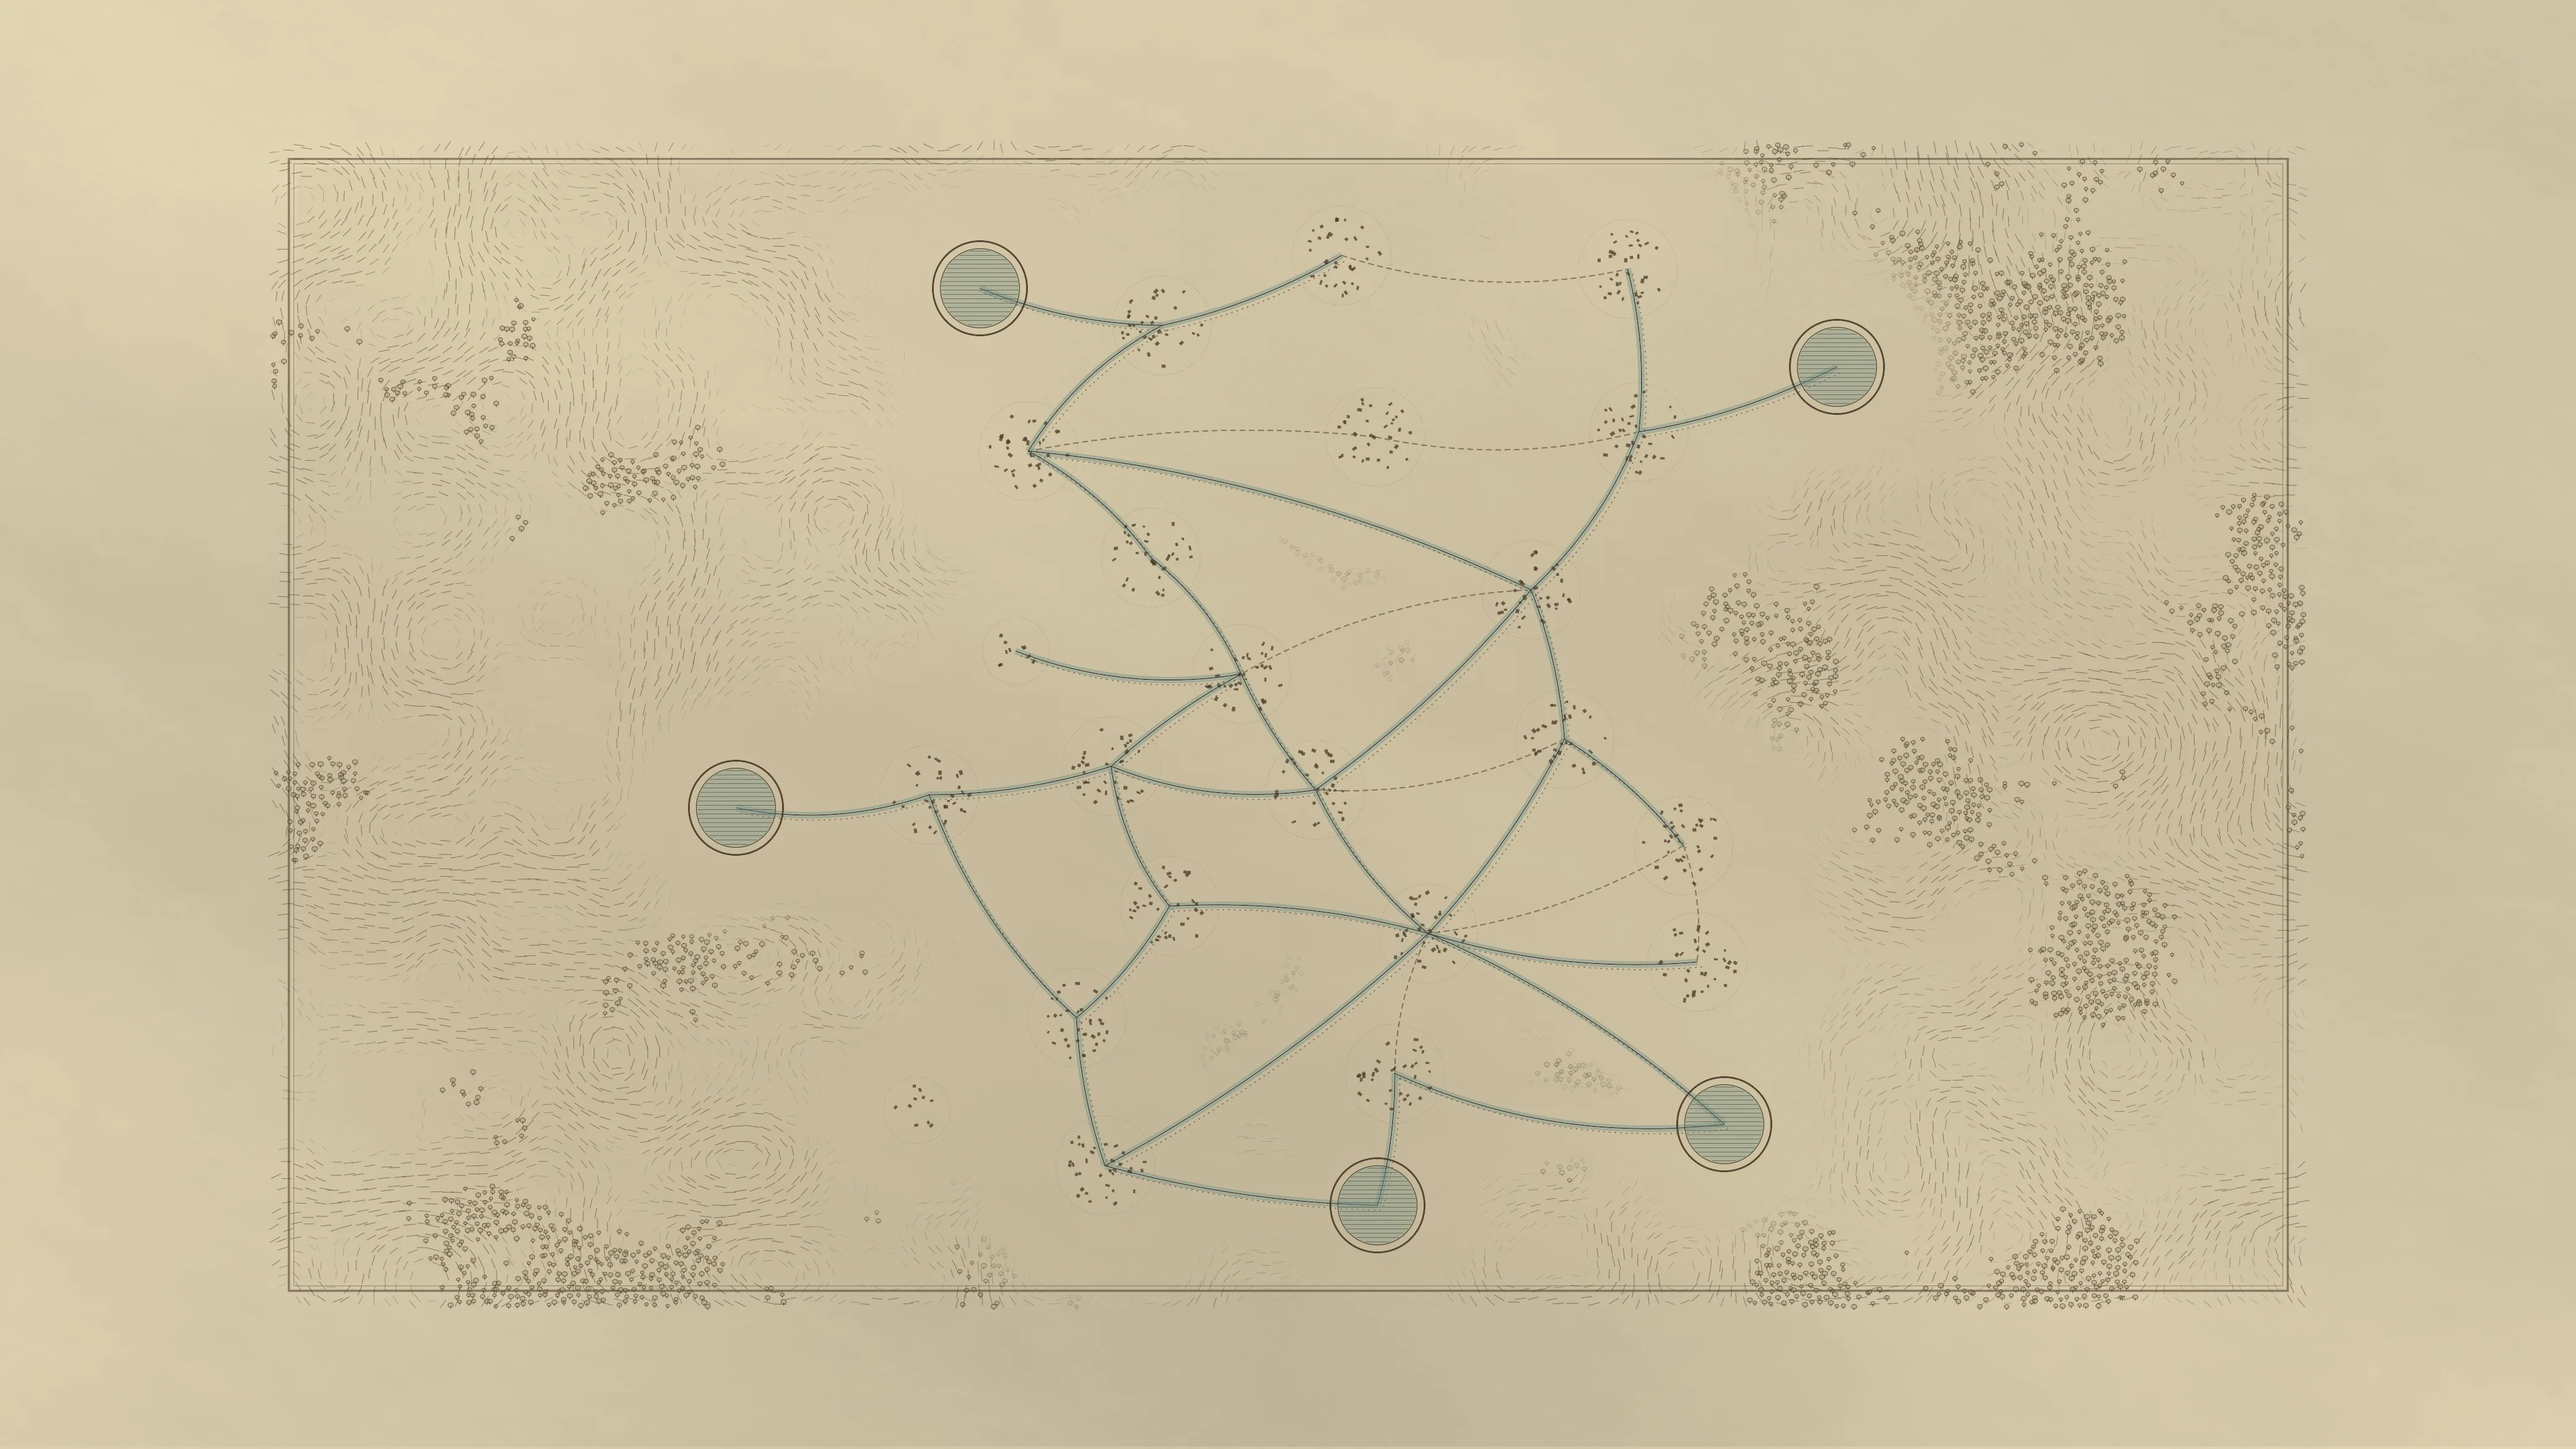
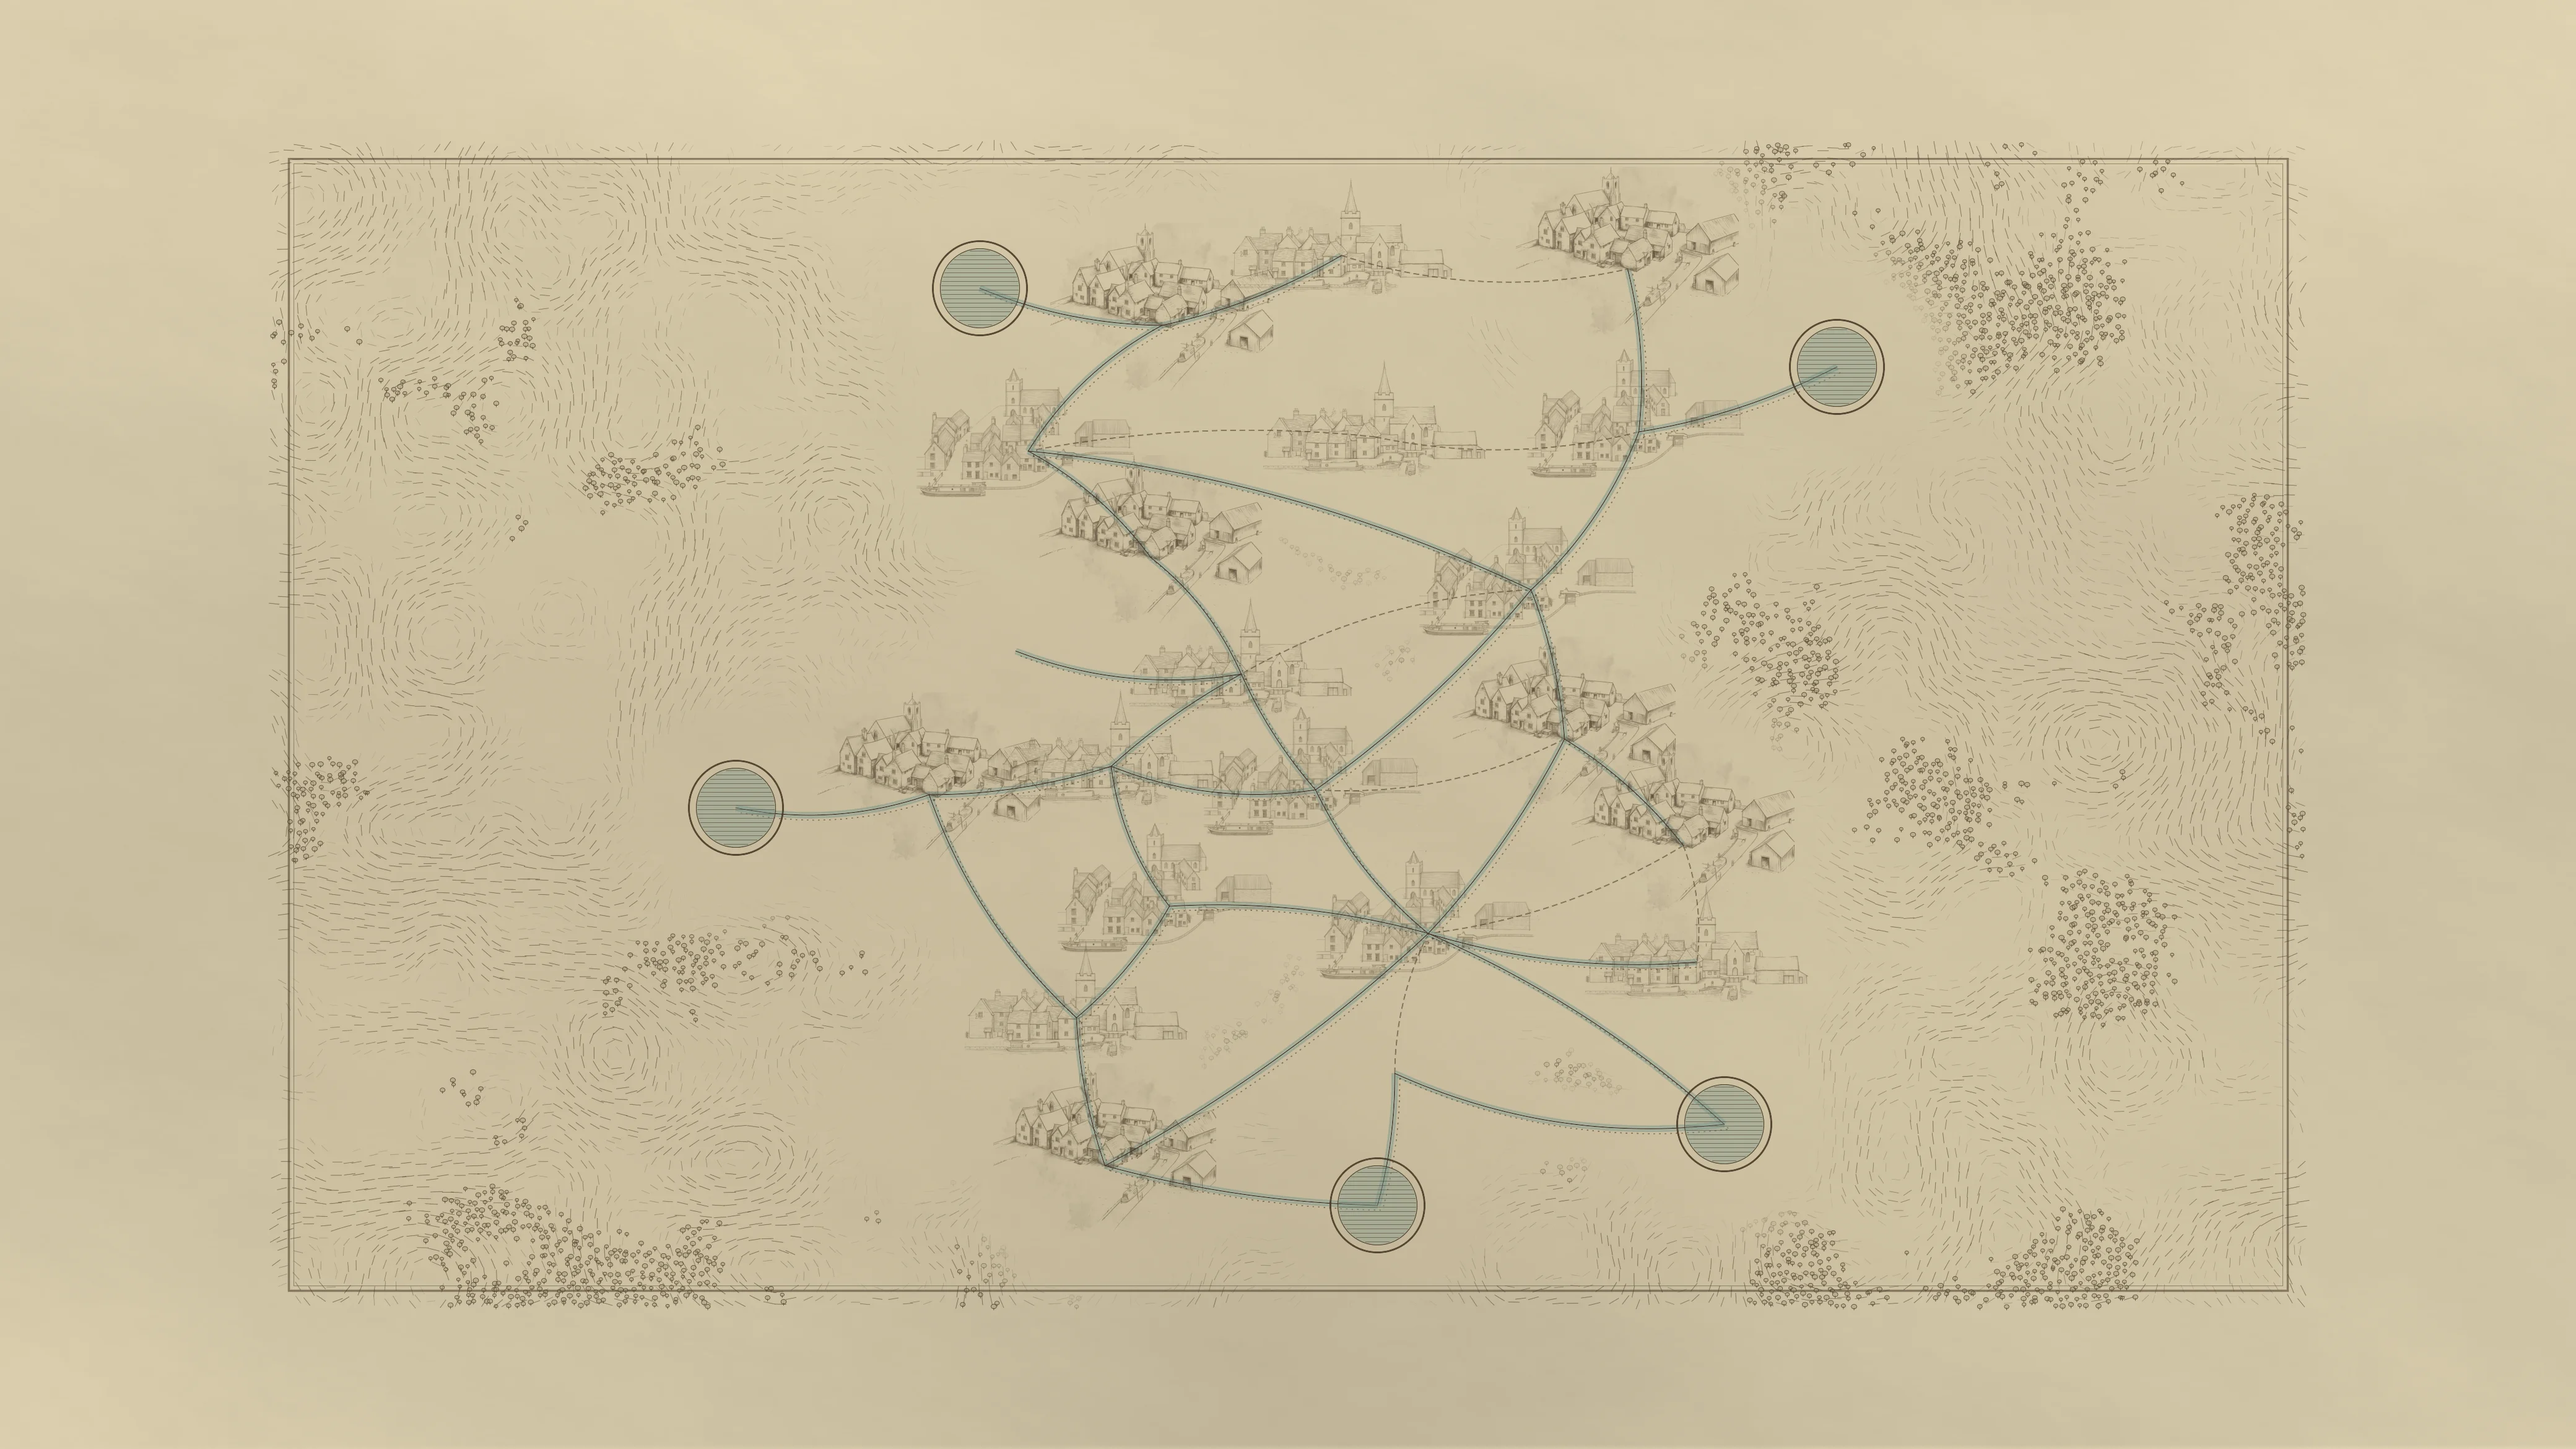
feat(assets): an engraved hamlet under each town
Three ink vignettes of a canal-side hamlet, drawn by Midjourney in the
same hand as the map, take turns under the towns in place of the block
clusters: the church and the roofs show between the cards.

diff --git a/tools/map/engrave.py b/tools/map/engrave.py
@@ -96,22 +96,19 @@ open(f'{out}/towpath.txt', 'w').write('\n'.join(poly(l['pts'], 8, 8) for l in g[
 open(f'{out}/road.txt', 'w').write('\n'.join(poly(l['pts']) for l in g['links'] if not l['canal']))
 open(f'{out}/rail.txt', 'w').write('\n'.join(poly(l.get('railPts') or l['pts']) for l in g['links'] if l['rail']))
 
-# village grounds: the county-map cluster of tiny black blocks, a hatched ring
-blocks, rings, soot, smoke = [], [], [], []
+# village grounds: a Midjourney-drawn hamlet under each town's tiles (the
+# three ink vignettes in tools/assets/map/vignettes, in turn), the church
+# and the roofs showing between the cards; soot and smoke for the Rail Era
+vign, soot, smoke = [], [], []
 for t in g['towns']:
-    cx, cy = X(t['x']), Y(t['y']); r = 40 if t['farm'] else 66
-    for _ in range(10 if t['farm'] else 34):
-        a = rng.random() * math.tau; d = math.sqrt(rng.random()) * r
-        w, h = 3 + rng.random() * 4, 2.4 + rng.random() * 2.6; rot = rng.random() * 180
-        blocks.append(f'push graphic-context translate {cx + math.cos(a) * d:.1f},{cy + math.sin(a) * d:.1f} rotate {rot:.1f} rectangle {-w/2:.1f},{-h/2:.1f} {w/2:.1f},{h/2:.1f} pop graphic-context')
-    rings.append(f'circle {cx},{cy} {cx + r + 14},{cy}')
-    if not t['farm']:
-        soot.append(f'circle {cx},{cy} {cx + 210},{cy}')
-        for _ in range(3):
-            a = rng.random() * math.tau; d = 60 + rng.random() * 140
-            smoke.append(f'ellipse {cx + math.cos(a) * d:.1f},{cy + math.sin(a) * d:.1f} {50 + rng.random()*60:.0f},{18 + rng.random()*20:.0f} 0,360')
-open(f'{out}/blocks.txt', 'w').write('\n'.join(blocks))
-open(f'{out}/rings.txt', 'w').write('\n'.join(rings))
+    cx, cy = X(t['x']), Y(t['y'])
+    if t['farm']: continue
+    vign.append(f'{len(vign) % 3} {cx} {cy - 30}')
+    soot.append(f'circle {cx},{cy} {cx + 210},{cy}')
+    for _ in range(3):
+        a = rng.random() * math.tau; d = 60 + rng.random() * 140
+        smoke.append(f'ellipse {cx + math.cos(a) * d:.1f},{cy + math.sin(a) * d:.1f} {50 + rng.random()*60:.0f},{18 + rng.random()*20:.0f} 0,360')
+open(f'{out}/vignettes.txt', 'w').write('\n'.join(vign))
 open(f'{out}/soot.txt', 'w').write('\n'.join(soot))
 open(f'{out}/smoke.txt', 'w').write('\n'.join(smoke))
 # merchant basins: a stone ring, water hatched inside
